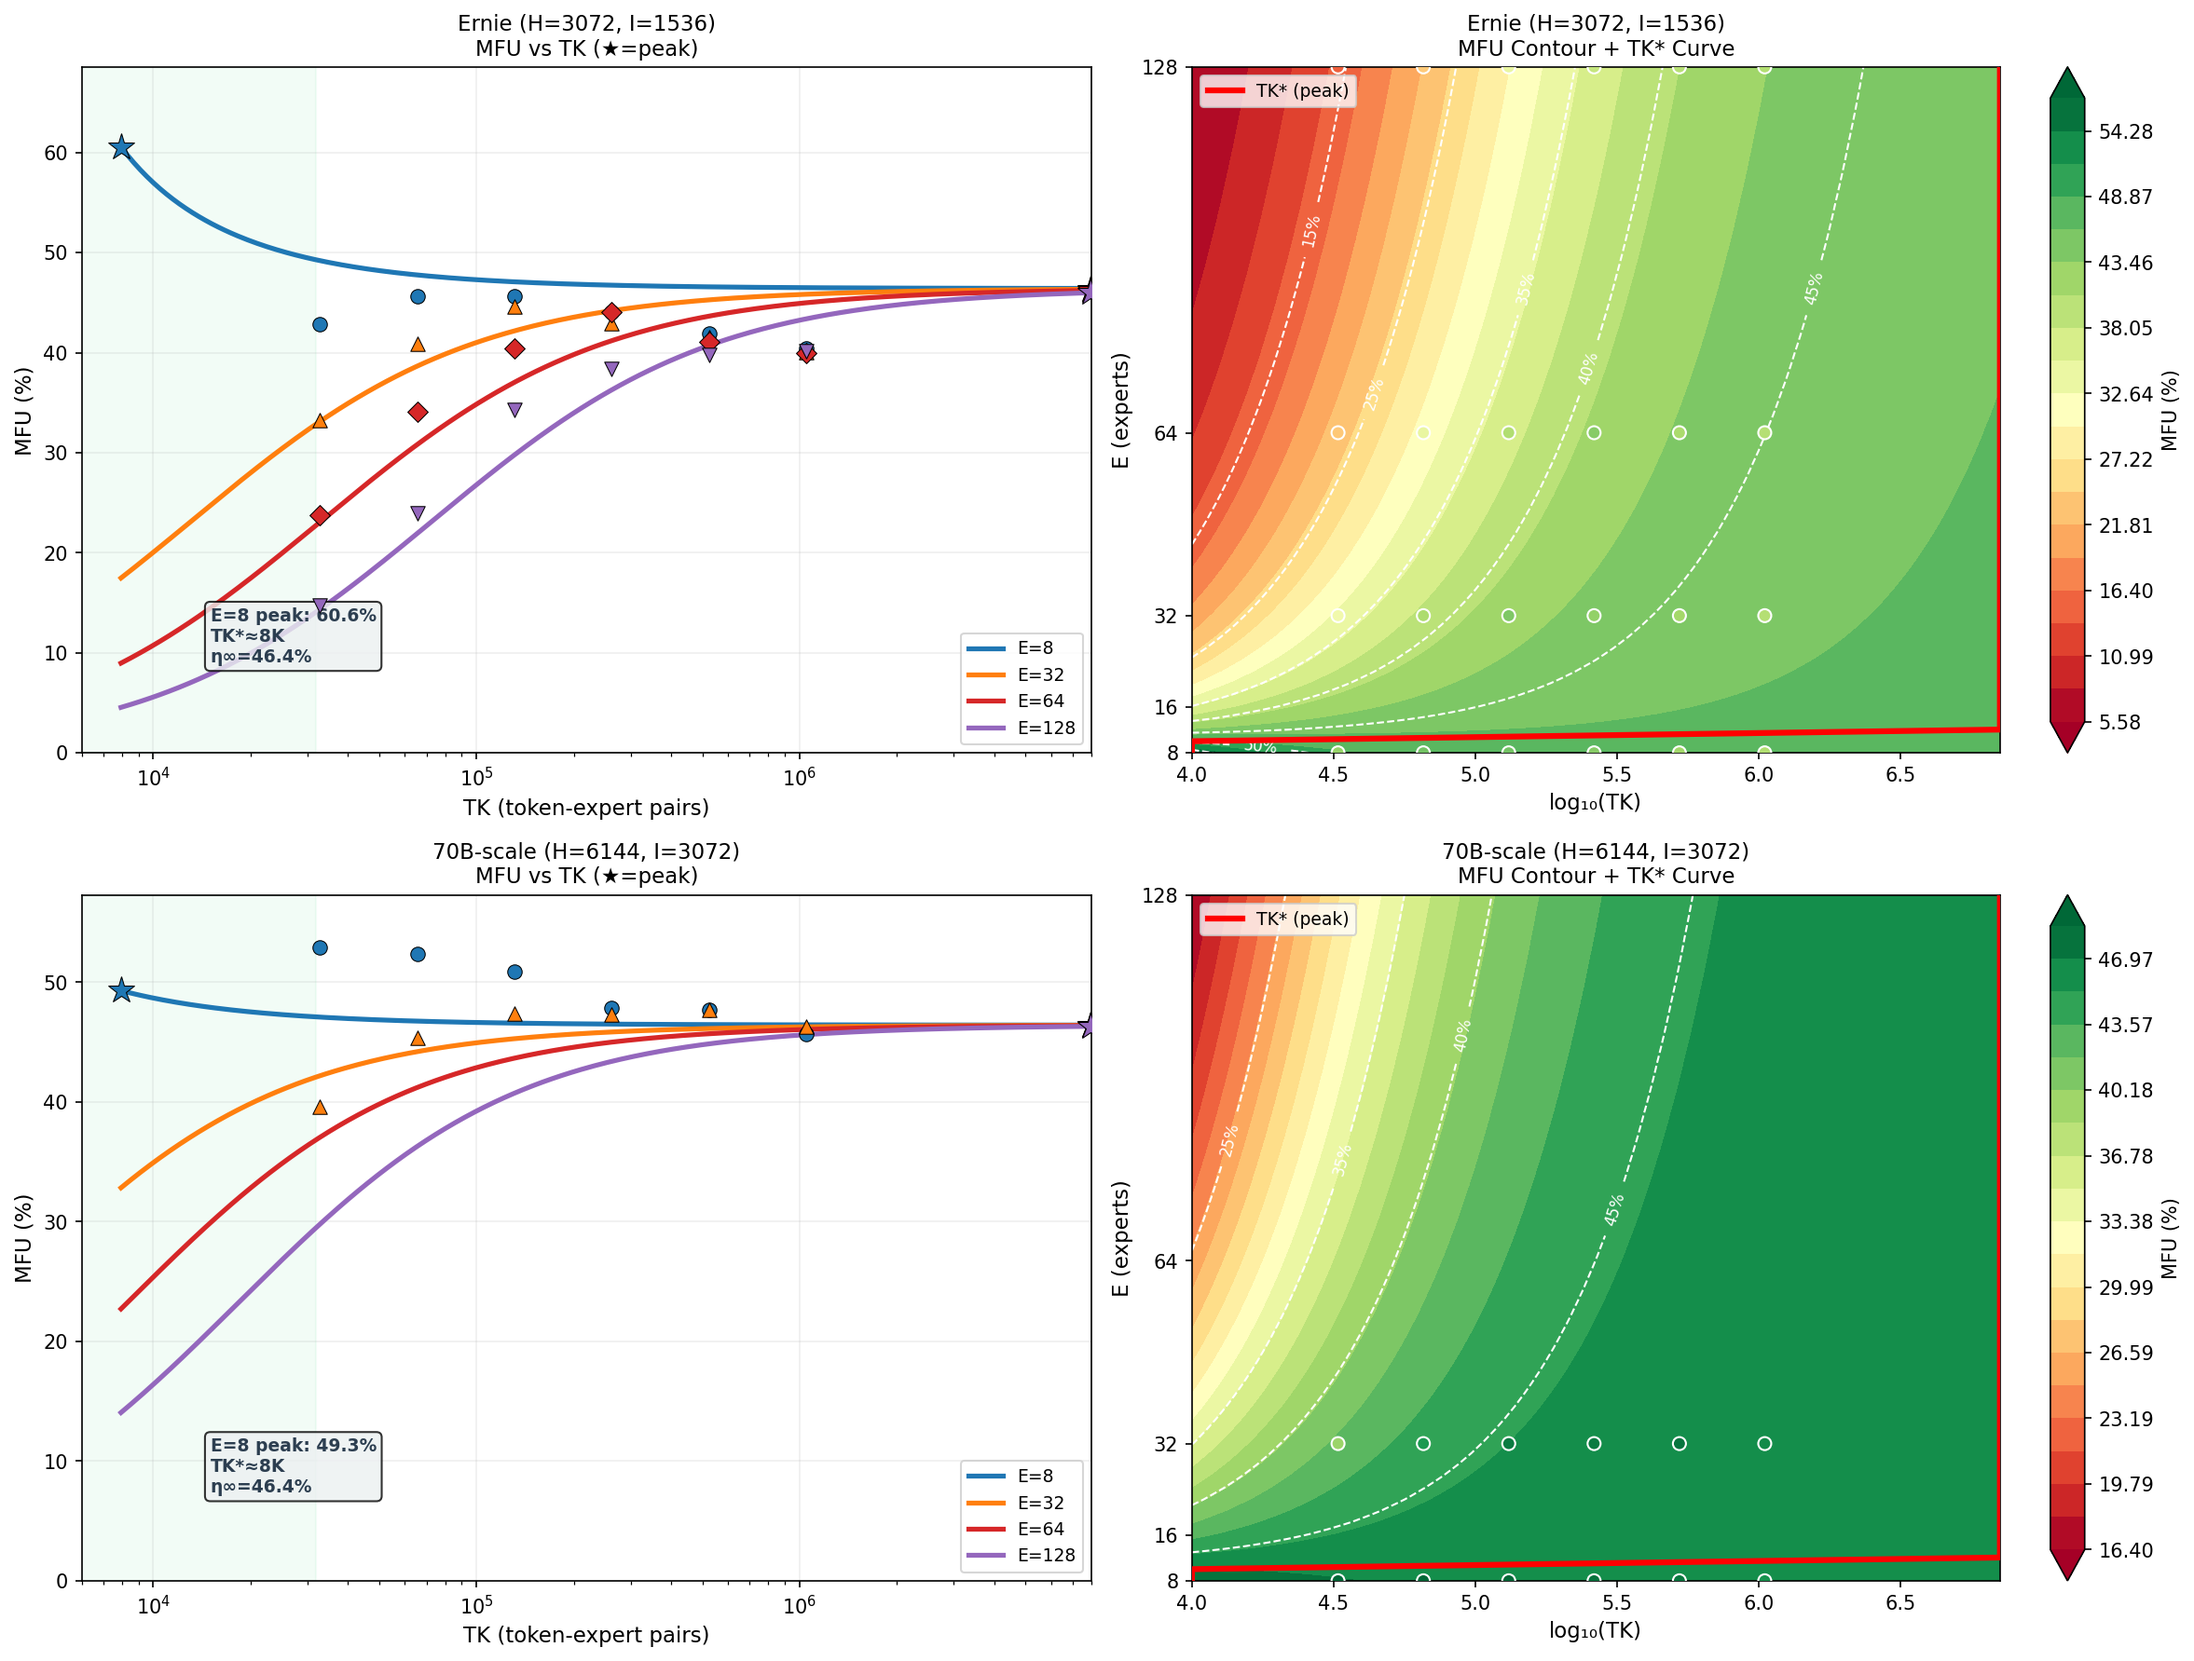
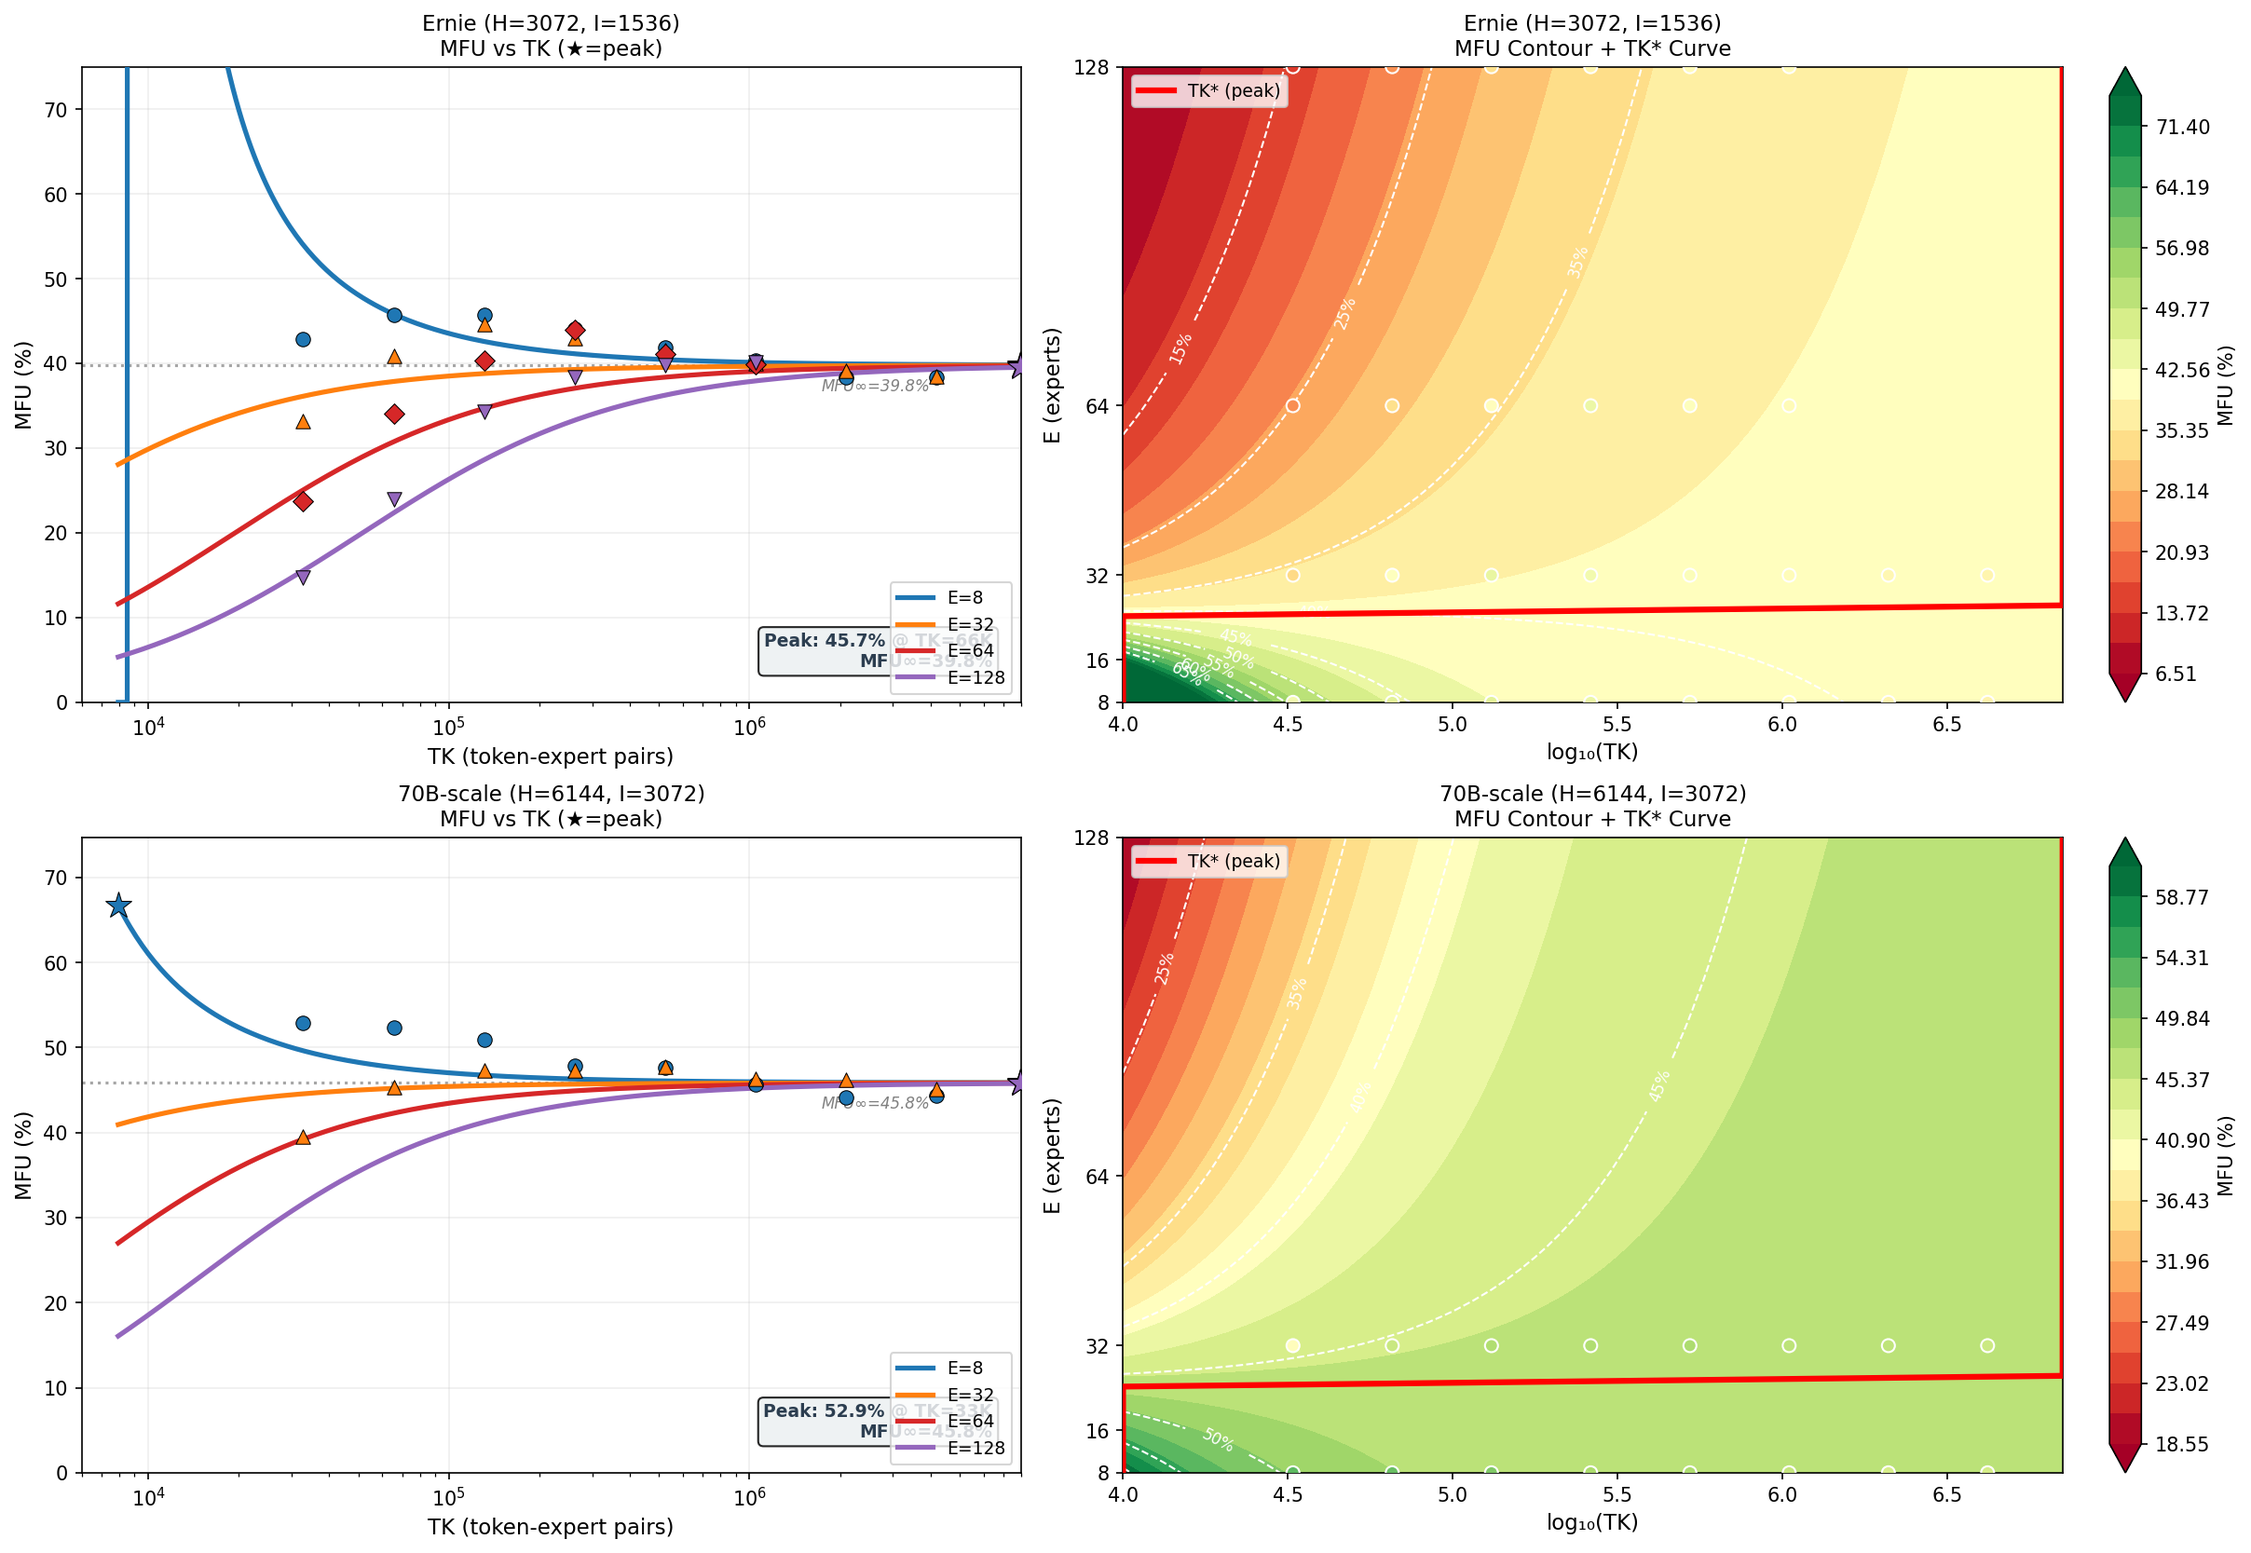
perf: steady-state anchored MFU model (94 pts, TK up to 4.2M)
Model: gpu_proj = 7.39e-9·TK·H·I + 4.09e-6·TK·max(H,2I) + 23.6·E - 598

Key findings:
- MFU follows RISE → PEAK → DECLINE → STEADY STATE behavior
- MFU∞ is shape-dependent (not universal):
  Ernie 39.8%, Qwen3 42.6%, 70B 45.8%
- Measured peaks: Ernie 45.7%@65K, 70B 52.9%@33K
- Incremental data collection (never overwrites valid data)
- 94 uniformly sampled points across 4E × 4HI × 8TK grid
- Steady-state fit MAPE=2.4%, overall MAPE=7.1%

diff --git a/tools/plot_mfu_model.py b/tools/plot_mfu_model.py
@@ -15,20 +15,21 @@ _REPO = os.path.dirname(os.path.dirname(os.path.abspath(__file__)))
 DATA_CSV = os.path.join(_REPO, "reports", "perf_sweep_nsys_8gpu.csv")
 OUT_DIR = os.path.join(_REPO, "reports")
 
-# ═══ MODEL PARAMETERS (from uniform 78-point fit) ═══
-# M1: gpu_proj_us = α·TK·H·I + γ·E + δ
-ALPHA = 8.618805e-9   # µs per (TK·H·I)
-GAMMA = 25.44          # µs per expert
-DELTA = -279.0         # µs constant
+# ═══ MODEL PARAMETERS (steady-state anchored, 94-point fit) ═══
+# gpu_proj_us = α·TK·H·I + β·TK·max(H,2I) + γ·E + δ
+ALPHA = 7.392397e-9    # per-FLOP cost (compute + quant)
+BETA = 4.092055e-6     # HBM bandwidth overhead (per data-volume unit)
+GAMMA = 23.6           # per-expert fixed (µs)
+DELTA = -598.0         # constant startup (µs)
 PEAK_TFLOPS = 4500     # B30Z FP8 peak (TFLOPS)
 
-# Derived
-ETA = 18.0 / (PEAK_TFLOPS * 1e6 * ALPHA)  # ≈ 0.464
+# Derived: MFU∞(H,I) = 18HI / (4500e6 × (ALPHA·HI + BETA·max(H,2I)))
+ETA = None  # No single η — asymptote is shape-dependent
 
 
 def gpu_proj_us(TK, H, I, E):
     """Predict GPU-projection time (µs) for fwd+bwd."""
-    return ALPHA * TK * H * I + GAMMA * E + DELTA
+    return ALPHA * TK * H * I + BETA * TK * max(H, 2*I) + GAMMA * E + DELTA
 
 
 def mfu_pct(TK, H, I, E):
@@ -37,6 +38,11 @@ def mfu_pct(TK, H, I, E):
     if proj <= 0:
         return 0.0
     return 18.0 * TK * H * I / (PEAK_TFLOPS * 1e6 * proj) * 100.0
+
+
+def mfu_inf(H, I):
+    """Shape-dependent MFU steady-state (TK→∞)."""
+    return 18.0 * H * I / (PEAK_TFLOPS * 1e6 * (ALPHA * H * I + BETA * max(H, 2*I))) * 100.0
 
 
 def load_data():
@@ -167,7 +173,7 @@ def main():
     # ═══ Figure: 2×2 grid ═══
     # Top row: Ernie shape (H=3072, I=1536) — curve + contour
     # Bottom row: Max-MFU shape (H=6144, I=3072) — curve + contour
-    fig, axes = plt.subplots(2, 2, figsize=(16, 12))
+    fig, axes = plt.subplots(2, 2, figsize=(16, 11), constrained_layout=True)
 
     HI_configs = [
         (3072, 1536, "Ernie (H=3072, I=1536)"),
@@ -203,22 +209,20 @@ def main():
         max_mfu_curve = max(np.max(m) for m in all_mfus)
         ax.set_ylim(0, min(max_mfu_curve + 8, 75))
 
-        # Peak annotation — positioned below the curve to avoid overlap
-        mfu_e8 = all_mfus[0]
-        pk_idx = np.argmax(mfu_e8)
-        pk_mfu = mfu_e8[pk_idx]
-        pk_tk = TK_line[pk_idx]
-
-        # Optimal zone shading (around E=8 peak ± factor)
-        zone_lo = pk_tk / 2
-        zone_hi = pk_tk * 4
-        ax.axvspan(zone_lo, zone_hi, alpha=0.06, color='#2ecc71', zorder=1)
-
-        # Annotation positioned in lower-left to avoid curve overlap
-        ax.text(1.5e4, max_mfu_curve * 0.15,
-                f'E=8 peak: {pk_mfu:.1f}%\nTK*≈{pk_tk/1000:.0f}K\nη∞={ETA*100:.1f}%',
-                fontsize=9, color='#2c3e50', fontweight='bold',
-                bbox=dict(boxstyle='round', facecolor='#ecf0f1', alpha=0.8))
+        # MFU∞ asymptote line + real peak annotation (inside axes)
+        e8_pts = [d for d in data if d['E']==8 and d['H']==H_val and d['I']==I_val]
+        if e8_pts:
+            real_peak = max(e8_pts, key=lambda d: d['mfu'])
+            mfu_asymp = mfu_inf(H_val, I_val)
+            ax.axhline(y=mfu_asymp, color='gray', linestyle=':', lw=1.5, alpha=0.7, zorder=2)
+            ax.text(4e6, mfu_asymp - 3, f'MFU∞={mfu_asymp:.1f}%', fontsize=8,
+                   color='gray', style='italic', ha='right')
+            # Peak info box in lower-right
+            ylim = ax.get_ylim()
+            ax.text(0.97, 0.05, f'Peak: {real_peak["mfu"]:.1f}% @ TK={real_peak["TK"]/1000:.0f}K\nMFU∞={mfu_asymp:.1f}%',
+                   fontsize=9, color='#2c3e50', fontweight='bold', transform=ax.transAxes,
+                   ha='right', va='bottom',
+                   bbox=dict(boxstyle='round', facecolor='#ecf0f1', alpha=0.85))
 
         ax.set_xlabel('TK (token-expert pairs)', fontsize=11)
         ax.set_ylabel('MFU (%)', fontsize=11)
@@ -276,7 +280,6 @@ def main():
         ax.set_yticks([8, 16, 32, 64, 128])
         ax.legend(loc='upper left', fontsize=9)
 
-    plt.tight_layout()
     path1 = os.path.join(OUT_DIR, "mfu_model_nsys.png")
     plt.savefig(path1, dpi=150, bbox_inches='tight')
     print(f"Saved: {path1}")

diff --git a/tests/ops/bench_perf_sweep_nsys.py b/tests/ops/bench_perf_sweep_nsys.py
@@ -25,12 +25,19 @@ TOPK = 8
 N_WARMUP = 12
 N_BENCH_ITERS = 8
 
-# (E, N_recv, H, I) — UNIFORM Cartesian product grid
-import itertools as _it
-_E_vals = [8, 32, 64, 128]
-_HI_vals = [(3072, 1536), (4096, 2048), (4096, 4096), (6144, 3072)]
-_N_vals = [4096, 8192, 16384, 32768, 65536, 131072]
-SWEEP_SHAPES = [(E, N, H, I) for E in _E_vals for H, I in _HI_vals for N in _N_vals]
+# (E, N_recv, H, I) — SUPPLEMENTARY: large TK to observe decline/stabilize
+SWEEP_SHAPES = [
+    (8, 262144, 3072, 1536),   (8, 524288, 3072, 1536),
+    (32, 262144, 3072, 1536),  (32, 524288, 3072, 1536),
+    (8, 262144, 4096, 2048),   (8, 524288, 4096, 2048),
+    (32, 262144, 4096, 2048),  (32, 524288, 4096, 2048),
+    (8, 262144, 4096, 4096),   (8, 524288, 4096, 4096),
+    (32, 262144, 4096, 4096),  (32, 524288, 4096, 4096),
+    (8, 262144, 6144, 3072),   (8, 524288, 6144, 3072),
+    (32, 262144, 6144, 3072),  (32, 524288, 6144, 3072),
+]
+
+# INCREMENTAL MODE: append new results to existing CSV (never overwrite valid data)
 
 
 def write_bench_script(path, E, N_recv_adj, H, I, tok_per_expert, gpu_id):
@@ -227,17 +234,34 @@ def main():
             if line.strip():
                 print(f"  {line}")
 
-    # Merge CSVs
+    # INCREMENTAL merge: read existing CSV, append new results, deduplicate
     csv_path = os.path.join(_REPO, "reports", "perf_sweep_nsys_8gpu.csv")
+    existing_lines = set()
+    if os.path.exists(csv_path):
+        with open(csv_path) as f:
+            header = next(f)
+            for line in f:
+                existing_lines.add(line.strip())
+        print(f"  Existing data: {len(existing_lines)} rows")
+
+    new_lines = set()
+    for gpu_id in range(n_gpus):
+        part = os.path.join(output_dir, f"results_gpu{gpu_id}.csv")
+        if os.path.exists(part):
+            with open(part) as f:
+                next(f)  # skip header
+                for line in f:
+                    line = line.strip()
+                    if line and ",OK" in line:
+                        new_lines.add(line)
+
+    all_lines = existing_lines | new_lines
     with open(csv_path, "w") as out_f:
         out_f.write("E,TK,N_recv,H,I,gpu_projection_us,status\n")
-        for gpu_id in range(n_gpus):
-            part = os.path.join(output_dir, f"results_gpu{gpu_id}.csv")
-            if os.path.exists(part):
-                with open(part) as f:
-                    next(f)
-                    out_f.write(f.read())
-    print(f"\nCSV saved: {csv_path}")
+        for line in sorted(all_lines):
+            out_f.write(line + "\n")
+    print(f"  New: {len(new_lines)}, Total: {len(all_lines)}")
+    print(f"CSV saved: {csv_path}")
 
 
 if __name__ == "__main__":

diff --git a/README.md b/README.md
@@ -51,34 +51,39 @@ Ernie:
   MFU = 46.51%
 ```
 
-Empirical scaling model (nsys GPU-projection, 78-point 8-GPU uniform grid, 2026-05-14):
+Empirical scaling model (nsys GPU-projection, 94-point 8-GPU uniform grid, 2026-05-14):
 
 ```text
-gpu_proj_us = 8.619e-9 * TK * H * I + 25.4 * E - 279
+gpu_proj_us = 7.392e-9·TK·H·I + 4.092e-6·TK·max(H,2I) + 23.6·E - 598
 
-MFU = 18*TK*H*I / (4500e6 * gpu_proj_us) * 100%
-    = η / (1 + (25.4*E - 279) / (8.619e-9 * TK * H * I))
+MFU = 18·TK·H·I / (4500e6 · gpu_proj_us) × 100%
 
-Parameters:
-  α = 8.619e-9 µs/(TK·H·I)  per-FLOP GPU cost (compute + quant)
-  γ = 25.4 µs/expert         per-expert fixed (weight cache + metadata)
-  δ = -279 µs                constant (valid only for TK > 32K)
-  η = 46.4%                  asymptotic MFU (TK→∞, all shapes converge)
+Term 1: GEMM compute + per-token quant overhead (∝ FLOPs)
+Term 2: HBM bandwidth-limited ops (∝ data volume per token)
+Term 3: Per-expert fixed cost (weight cache + metadata)
+Term 4: Constant startup
 
-Key properties:
-  • MFU∞ = η = 46.4% (universal ceiling, indep. of H, I, E)
-  • Larger H×I reaches η faster (fixed overhead amortized sooner)
-  • E only affects convergence SPEED to η, not the ceiling
-  • Model valid for: TK∈[32K,2M], E∈[8,128], H∈[3072,6144]
-  • MAPE = 5.9% across 78 uniformly sampled shapes
+MFU∞ (TK→∞, shape-dependent steady state):
+  = 18·H·I / (4500e6·(7.392e-9·H·I + 4.092e-6·max(H,2I)))
+  H=3072 I=1536 (Ernie):  MFU∞ = 39.8%  (measured@4M: 38.3%)
+  H=4096 I=2048 (Qwen3):  MFU∞ = 42.6%  (measured@4M: 40.6%)
+  H=4096 I=4096 (peak):   MFU∞ = 42.6%  (measured@4M: 43.6%)
+  H=6144 I=3072 (70B):    MFU∞ = 45.8%  (measured@4M: 44.3%)
 
-Half-MFU TK (where MFU = η/2 ≈ 23%):
-  E=8:   always above η/2 for TK>32K (startup negligible)
-  E=128: TK_half ≈ 73K (H=3072) / 18K (H=6144)
+Measured PEAK MFU (from 94 nsys data points):
+  H=3072 I=1536 E=8: 45.7% at TK=65K
+  H=4096 I=2048 E=8: 50.5% at TK=65K
+  H=4096 I=4096 E=8: 52.4% at TK=33K
+  H=6144 I=3072 E=8: 52.9% at TK=33K
 
-Limitation: model predicts FLAT MFU at large TK. Empirically,
-MFU drops ~2-3% per TK decade above TK=200K due to L2 cache
-thrashing (measured in 10-point deep E=8 sweep to TK=6.3M).
+MFU behavior: RISE → PEAK → DECLINE → STEADY STATE
+  Small TK: MFU↑ (amortizing per-expert startup)
+  Peak TK*: ~33K–65K (shape-dependent, E=8)
+  Decline: L2 thrashing (working set > L2, 2-3%/decade)
+  Steady TK>2M: converges to MFU∞ (shape-dependent constant)
+
+Fit: MAPE=2.4% on steady-state (TK≥1M), 7.1% overall (94 pts)
+     TK∈[32K,4.2M], E∈[8,128], H∈[3072,6144], I∈[1536,4096]
 ```
 
 Read first:
